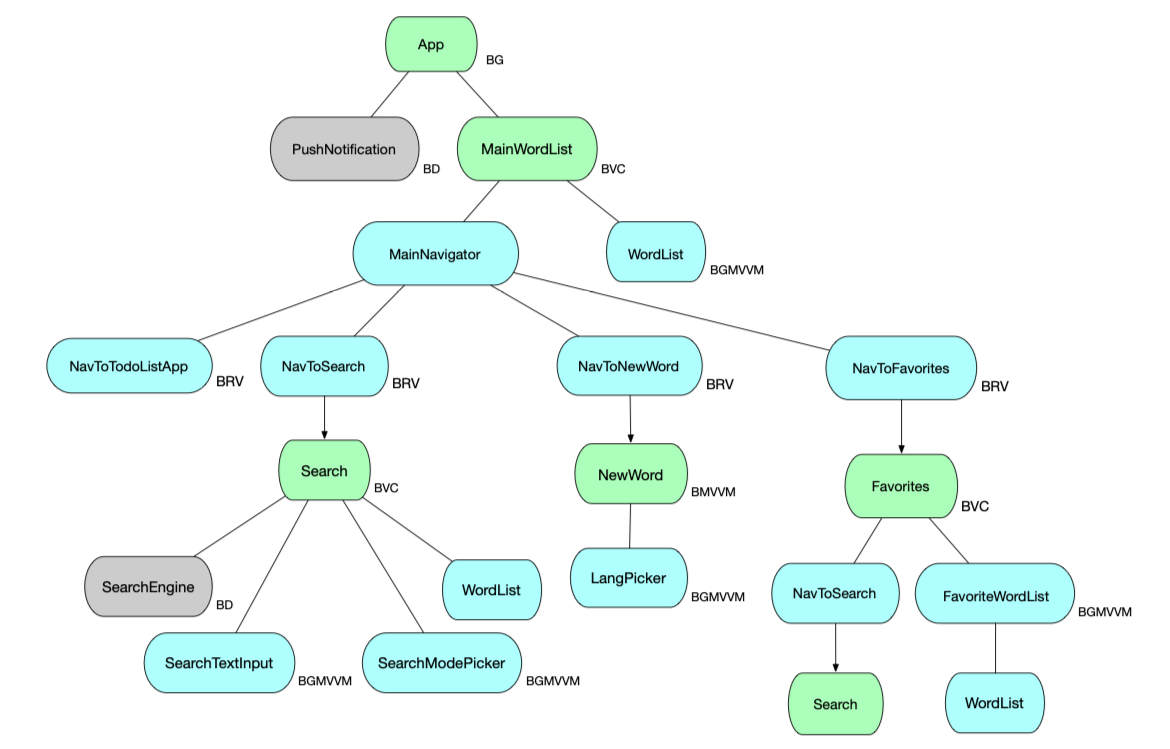
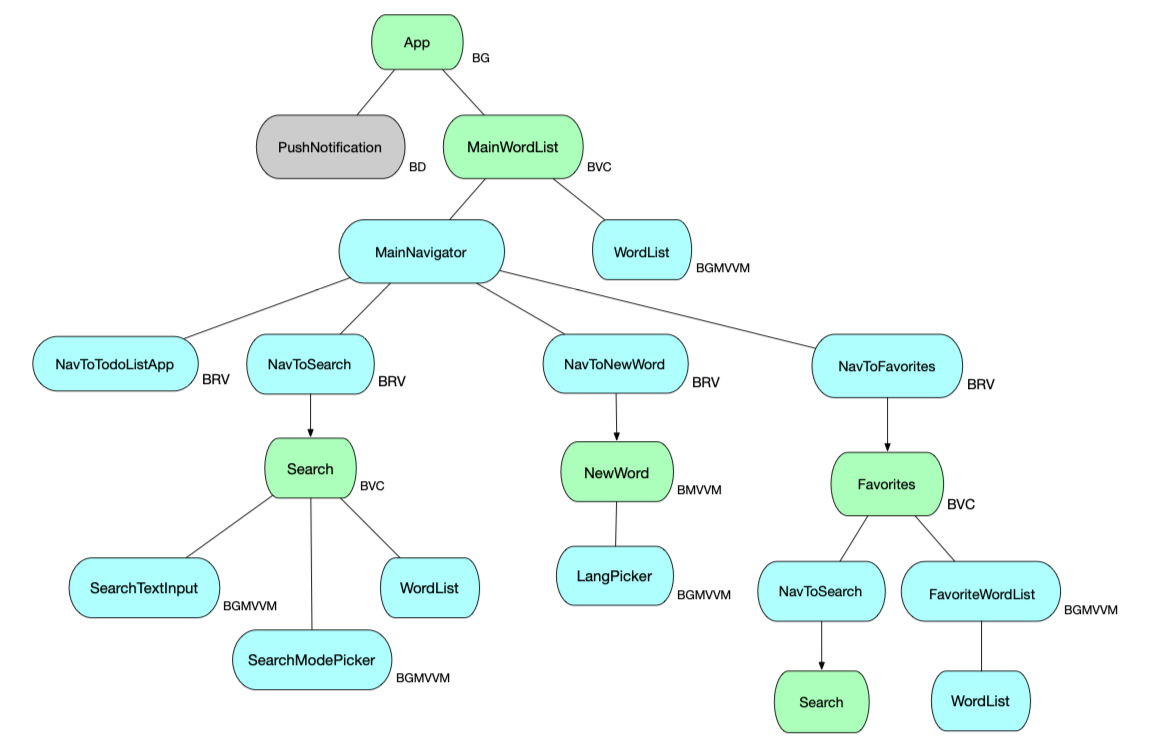
[TDL-32t]: Dependency refactored.

diff --git a/AppModules/PersonalDictionary/Source/UIFeature/PartScreen/WordList/Builder/WordListBuilderImpl.swift b/AppModules/PersonalDictionary/Source/UIFeature/PartScreen/WordList/Builder/WordListBuilderImpl.swift
@@ -11,19 +11,15 @@ import CoreModule
 final class WordListBuilderImpl: WordListBuilder {
 
     private let shouldAnimateWhenAppear: Bool
-    private let appConfig: AppConfig
-    private let bundle: Bundle
+    private let dependency: RootDependency
 
     /// Инициализатор.
     /// - Parameters:
     ///  - shouldAnimateWhenAppear: запускать ли анимацию при первом появлении данных в таблице.
-    ///  - appConfig: конфигурация приложения.
     init(shouldAnimateWhenAppear: Bool,
-         appConfig: AppConfig,
-         bundle: Bundle) {
+         dependency: RootDependency) {
         self.shouldAnimateWhenAppear = shouldAnimateWhenAppear
-        self.appConfig = appConfig
-        self.bundle = bundle
+        self.dependency = dependency
     }
 
     /// Создать MVVM-граф фичи
@@ -32,7 +28,7 @@ final class WordListBuilderImpl: WordListBuilder {
     func build() -> WordListMVVM {
         WordListMVVMImpl(
             viewParams: createWordListViewParams(),
-            cudOperations: CoreWordListRepository(appConfig: appConfig, bundle: bundle),
+            cudOperations: CoreWordListRepository(appConfig: dependency.appConfig, bundle: dependency.bundle),
             translationService: createTranslationService(),
             wordItemStream: WordItemStreamImpl.instance
         )
@@ -61,10 +57,10 @@ final class WordListBuilderImpl: WordListBuilder {
         PonsTranslationService(
             apiData: PonsApiData(url: "https://api.pons.com/v1/dictionary",
                                  secretHeaderKey: "X-Secret",
-                                 secret: appConfig.ponsApiSecret),
+                                 secret: dependency.appConfig.ponsApiSecret),
             httpClient: HttpClientImpl(sessionConfiguration: URLSessionConfiguration.default),
             jsonCoder: JSONCoderImpl(),
-            logger: LoggerImpl(isLoggingEnabled: appConfig.isLoggingEnabled)
+            logger: LoggerImpl(isLoggingEnabled: dependency.appConfig.isLoggingEnabled)
         )
     }
 }

diff --git a/AppModules/PersonalDictionary/Source/UIFeature/FullScreen/Search/Builder/SearchBuilderImpl.swift b/AppModules/PersonalDictionary/Source/UIFeature/FullScreen/Search/Builder/SearchBuilderImpl.swift
@@ -8,33 +8,26 @@
 /// Билдер Фичи "Поиск по словам в словаре".
 final class SearchBuilderImpl: ViewControllerBuilder {
 
-    private let appConfig: AppConfig
+    private weak var dependency: RootDependency?
 
-    private let bundle: Bundle
-
-    /// Инициализатор.
-    /// - Parameters:
-    ///  - appConfig: зависимости фичи.
-    init(appConfig: AppConfig,
-         bundle: Bundle) {
-        self.appConfig = appConfig
-        self.bundle = bundle
+    init(dependency: RootDependency?) {
+        self.dependency = dependency
     }
 
     /// Создать экран Поиска.
     /// - Returns:
     ///  - View controller экрана поиска по словам в словаре.
     func build() -> UIViewController {
-        SearchViewController(
-            noResultFoundText: bundle.moduleLocalizedString("No words found"),
-            searchTextInputBuilder: SearchTextInputBuilderImpl(bundle: bundle),
-            searchModePickerBuilder: SearchModePickerBuilderImpl(bundle: bundle),
-            wordListBuilder: WordListBuilderImpl(
-                shouldAnimateWhenAppear: false,
-                appConfig: appConfig,
-                bundle: bundle
-            ),
-            searchEngineBuilder: SearchEngineBuilderImpl(appConfig: appConfig, bundle: bundle)
+        guard let dependency = dependency else { return UIViewController() }
+
+        return SearchViewController(
+            noResultFoundText: dependency.bundle.moduleLocalizedString("No words found"),
+            searchTextInputBuilder: SearchTextInputBuilderImpl(bundle: dependency.bundle),
+            searchModePickerBuilder: SearchModePickerBuilderImpl(bundle: dependency.bundle),
+            wordListBuilder: WordListBuilderImpl(shouldAnimateWhenAppear: false, dependency: dependency),
+            searchEngine: SearchEngineImpl(
+                searchableWordList: CoreWordListRepository(appConfig: dependency.appConfig, bundle: dependency.bundle)
+            )
         )
     }
 }

diff --git a/AppModules/PersonalDictionary/Source/UIFeature/PartScreen/FavoriteWordList/Builder/FavoriteWordListBuilderImpl.swift b/AppModules/PersonalDictionary/Source/UIFeature/PartScreen/FavoriteWordList/Builder/FavoriteWordListBuilderImpl.swift
@@ -9,32 +9,26 @@ import UIKit
 
 final class FavoriteWordListBuilderImpl: ViewControllerBuilder {
 
-    private let appConfig: AppConfig
+    private weak var dependency: RootDependency?
 
-    private let bundle: Bundle
-
-    init(appConfig: AppConfig,
-         bundle: Bundle) {
-        self.appConfig = appConfig
-        self.bundle = bundle
+    init(dependency: RootDependency) {
+        self.dependency = dependency
     }
 
     func build() -> UIViewController {
+        guard let dependency = dependency else { return UIViewController() }
+        let bundle = dependency.bundle
         weak var viewModelLazy: FavoriteWordListViewModel?
 
         let model = FavoriteWordListModelImpl(
             viewModelBlock: { viewModelLazy },
-            favoriteWordListFetcher: CoreWordListRepository(appConfig: appConfig, bundle: bundle),
+            favoriteWordListFetcher: CoreWordListRepository(appConfig: dependency.appConfig, bundle: bundle),
             wordItemStream: WordItemStreamImpl.instance
         )
         let viewModel = FavoriteWordListViewModelImpl(model: model)
         let view = FavoriteWordListView(
             viewModel: viewModel,
-            wordListBuilder: WordListBuilderImpl(
-                shouldAnimateWhenAppear: false,
-                appConfig: appConfig,
-                bundle: bundle
-            ),
+            wordListBuilder: WordListBuilderImpl(shouldAnimateWhenAppear: false, dependency: dependency),
             noFavoriteWordsText: bundle.moduleLocalizedString("No favorite words")
         )
 

diff --git a/AppModules/PersonalDictionary/Source/UIFeature/FullScreen/Search/ViewController/SearchViewController.swift b/AppModules/PersonalDictionary/Source/UIFeature/FullScreen/Search/ViewController/SearchViewController.swift
@@ -26,17 +26,17 @@ final class SearchViewController: UIViewController, SearchTextInputListener, Sea
     ///  - searchTextInputBuilder: билдер вложенной фичи "Элемент ввода текста для поиска"
     ///  - searchModePickerBuilder: билдер вложенной фичи "Выбор режима поиска"
     ///  - wordListBuilder: билдер вложенной фичи "Список слов".
-    ///  - searchEngineBuilder: билдер вложенной фичи "Поисковый Движок"
+    ///  - searchEngine: поисковый движок.
     init(noResultFoundText: String,
          searchTextInputBuilder: SearchTextInputBuilder,
          searchModePickerBuilder: SearchModePickerBuilder,
          wordListBuilder: WordListBuilder,
-         searchEngineBuilder: SearchEngineBuilder) {
+         searchEngine: SearchEngine) {
         self.noResultFoundText = noResultFoundText
         searchTextInputMVVM = searchTextInputBuilder.build()
         searchModePickerMVVM = searchModePickerBuilder.build()
         wordListMVVM = wordListBuilder.build()
-        searchEngine = searchEngineBuilder.build()
+        self.searchEngine = searchEngine
         super.init(nibName: nil, bundle: nil)
         initViews()
     }

diff --git a/AppModules/PersonalDictionary/Source/UIFeature/FullScreen/Favorites/Builder/FavoritesBuilderImpl.swift b/AppModules/PersonalDictionary/Source/UIFeature/FullScreen/Favorites/Builder/FavoritesBuilderImpl.swift
@@ -19,7 +19,6 @@ final class FavoritesBuilderImpl: ViewControllerBuilder {
     ///  - View controller экрана.
     func build() -> UIViewController {
         guard let dependency = dependency else { return UIViewController() }
-        let appConfig = dependency.appConfig
         let bundle = dependency.bundle
         let navToSearchBuilder = NavToSearchBuilderImpl(
             width: .smaller,
@@ -29,7 +28,7 @@ final class FavoritesBuilderImpl: ViewControllerBuilder {
         return FavoritesViewController(
             heading: bundle.moduleLocalizedString("Favorite words"),
             navToSearchBuilder: navToSearchBuilder,
-            favoriteWordListBuilder: FavoriteWordListBuilderImpl(appConfig: appConfig, bundle: bundle)
+            favoriteWordListBuilder: FavoriteWordListBuilderImpl(dependency: dependency)
         )
     }
 }

diff --git a/AppModules/PersonalDictionary/Source/UIFeature/FullScreen/MainWordList/Builder/MainWordListBuilderImpl.swift b/AppModules/PersonalDictionary/Source/UIFeature/FullScreen/MainWordList/Builder/MainWordListBuilderImpl.swift
@@ -27,11 +27,7 @@ final class MainWordListBuilderImpl: ViewControllerBuilder {
                 heading: dependency.bundle.moduleLocalizedString("My dictionary"),
                 visibleItemMaxCount: Int(ceil(UIScreen.main.bounds.height / WordItemCell.height))
             ),
-            wordListBuilder: WordListBuilderImpl(
-                shouldAnimateWhenAppear: true,
-                appConfig: dependency.appConfig,
-                bundle: dependency.bundle
-            ),
+            wordListBuilder: WordListBuilderImpl(shouldAnimateWhenAppear: true, dependency: dependency),
             wordListFetcher: CoreWordListRepository(appConfig: dependency.appConfig, bundle: dependency.bundle),
             mainNavigatorBuilder: MainNavigatorBuilderImpl(dependency: dependency)
         )

diff --git a/AppModules/PersonalDictionary/Source/UIFeature/PartScreen/NavToSearch/Builder/NavToSearchBuilderImpl.swift b/AppModules/PersonalDictionary/Source/UIFeature/PartScreen/NavToSearch/Builder/NavToSearchBuilderImpl.swift
@@ -31,10 +31,7 @@ final class NavToSearchBuilderImpl: ViewBuilder {
     /// - Returns: представление фичи.
     func build() -> UIView {
         guard let dependency = dependency else { return UIView() }
-        let searchBuilder = SearchBuilderImpl(
-            appConfig: dependency.appConfig,
-            bundle: dependency.bundle
-        )
+        let searchBuilder = SearchBuilderImpl(dependency: dependency)
         let router = NavToSearchRouterImpl(
             navigationController: dependency.navigationController,
             searchBuilder: searchBuilder

diff --git a/AppModules/PersonalDictionary/Source/App/Builder/AppBuilderImpl.swift b/AppModules/PersonalDictionary/Source/App/Builder/AppBuilderImpl.swift
@@ -7,13 +7,16 @@
 
 import UIKit
 
-protocol AppDependency: AnyObject {
-
-    var navigationController: UINavigationController? { get }
+protocol RootDependency: AnyObject {
 
     var appConfig: AppConfig { get }
-    
+
     var bundle: Bundle { get }
+}
+
+protocol AppDependency: RootDependency {
+
+    var navigationController: UINavigationController? { get }
 }
 
 class AppDependencyImpl: AppDependency {
